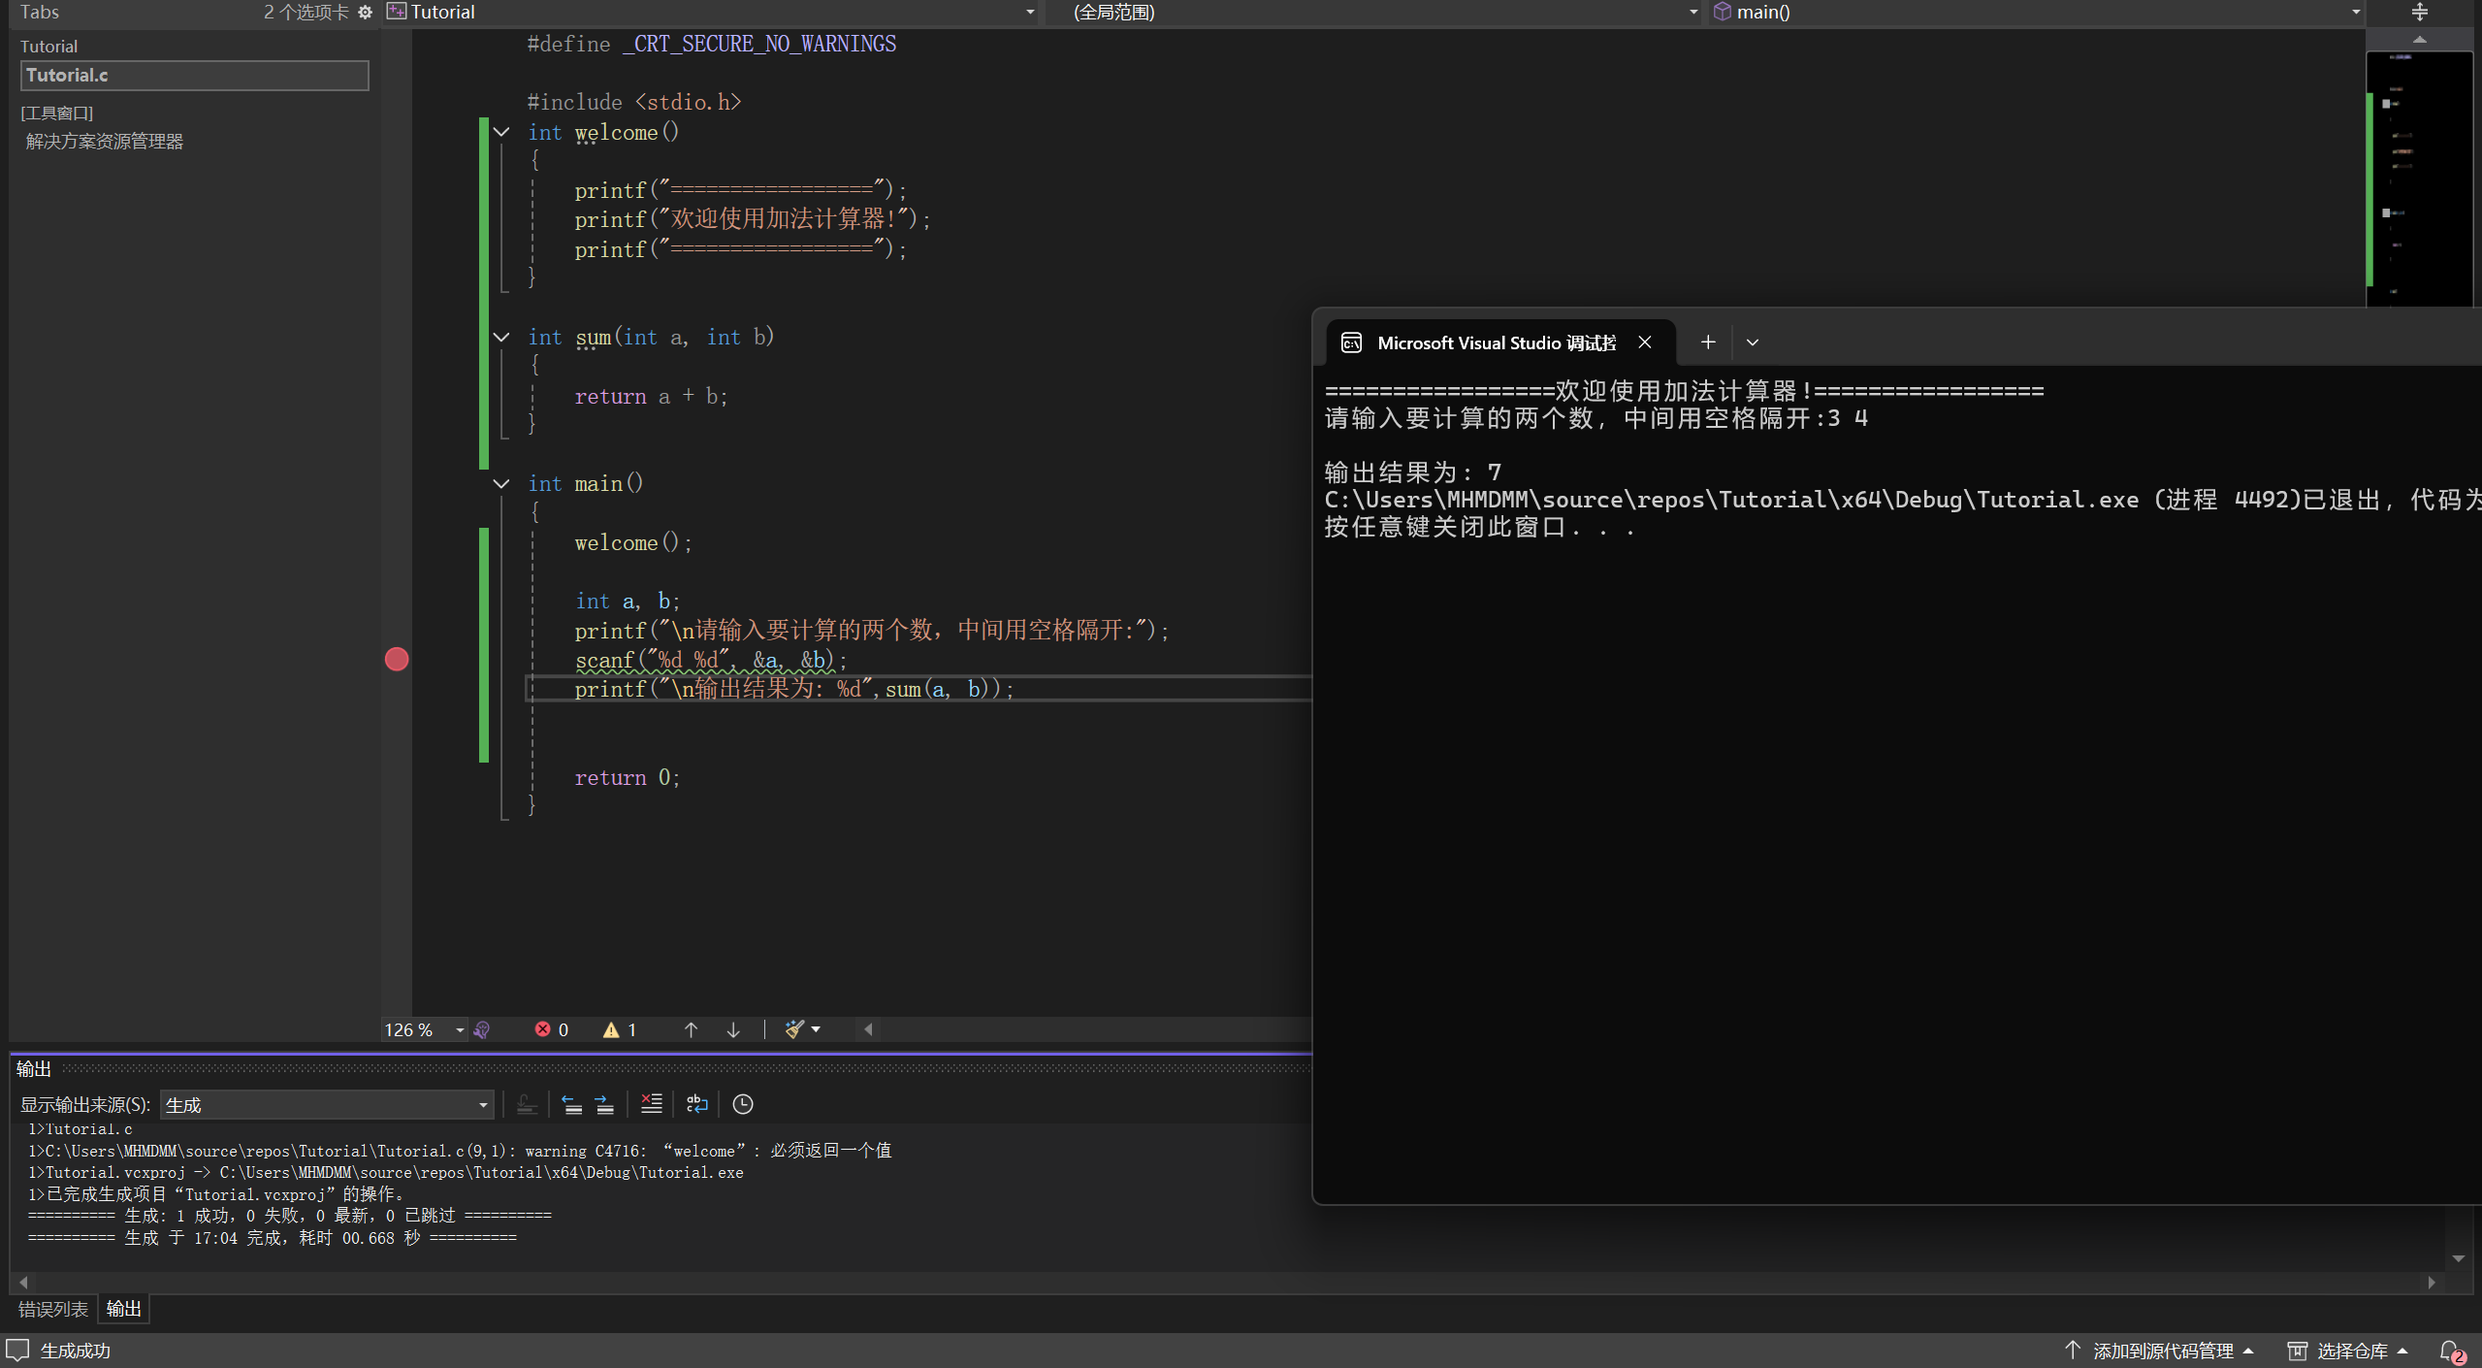
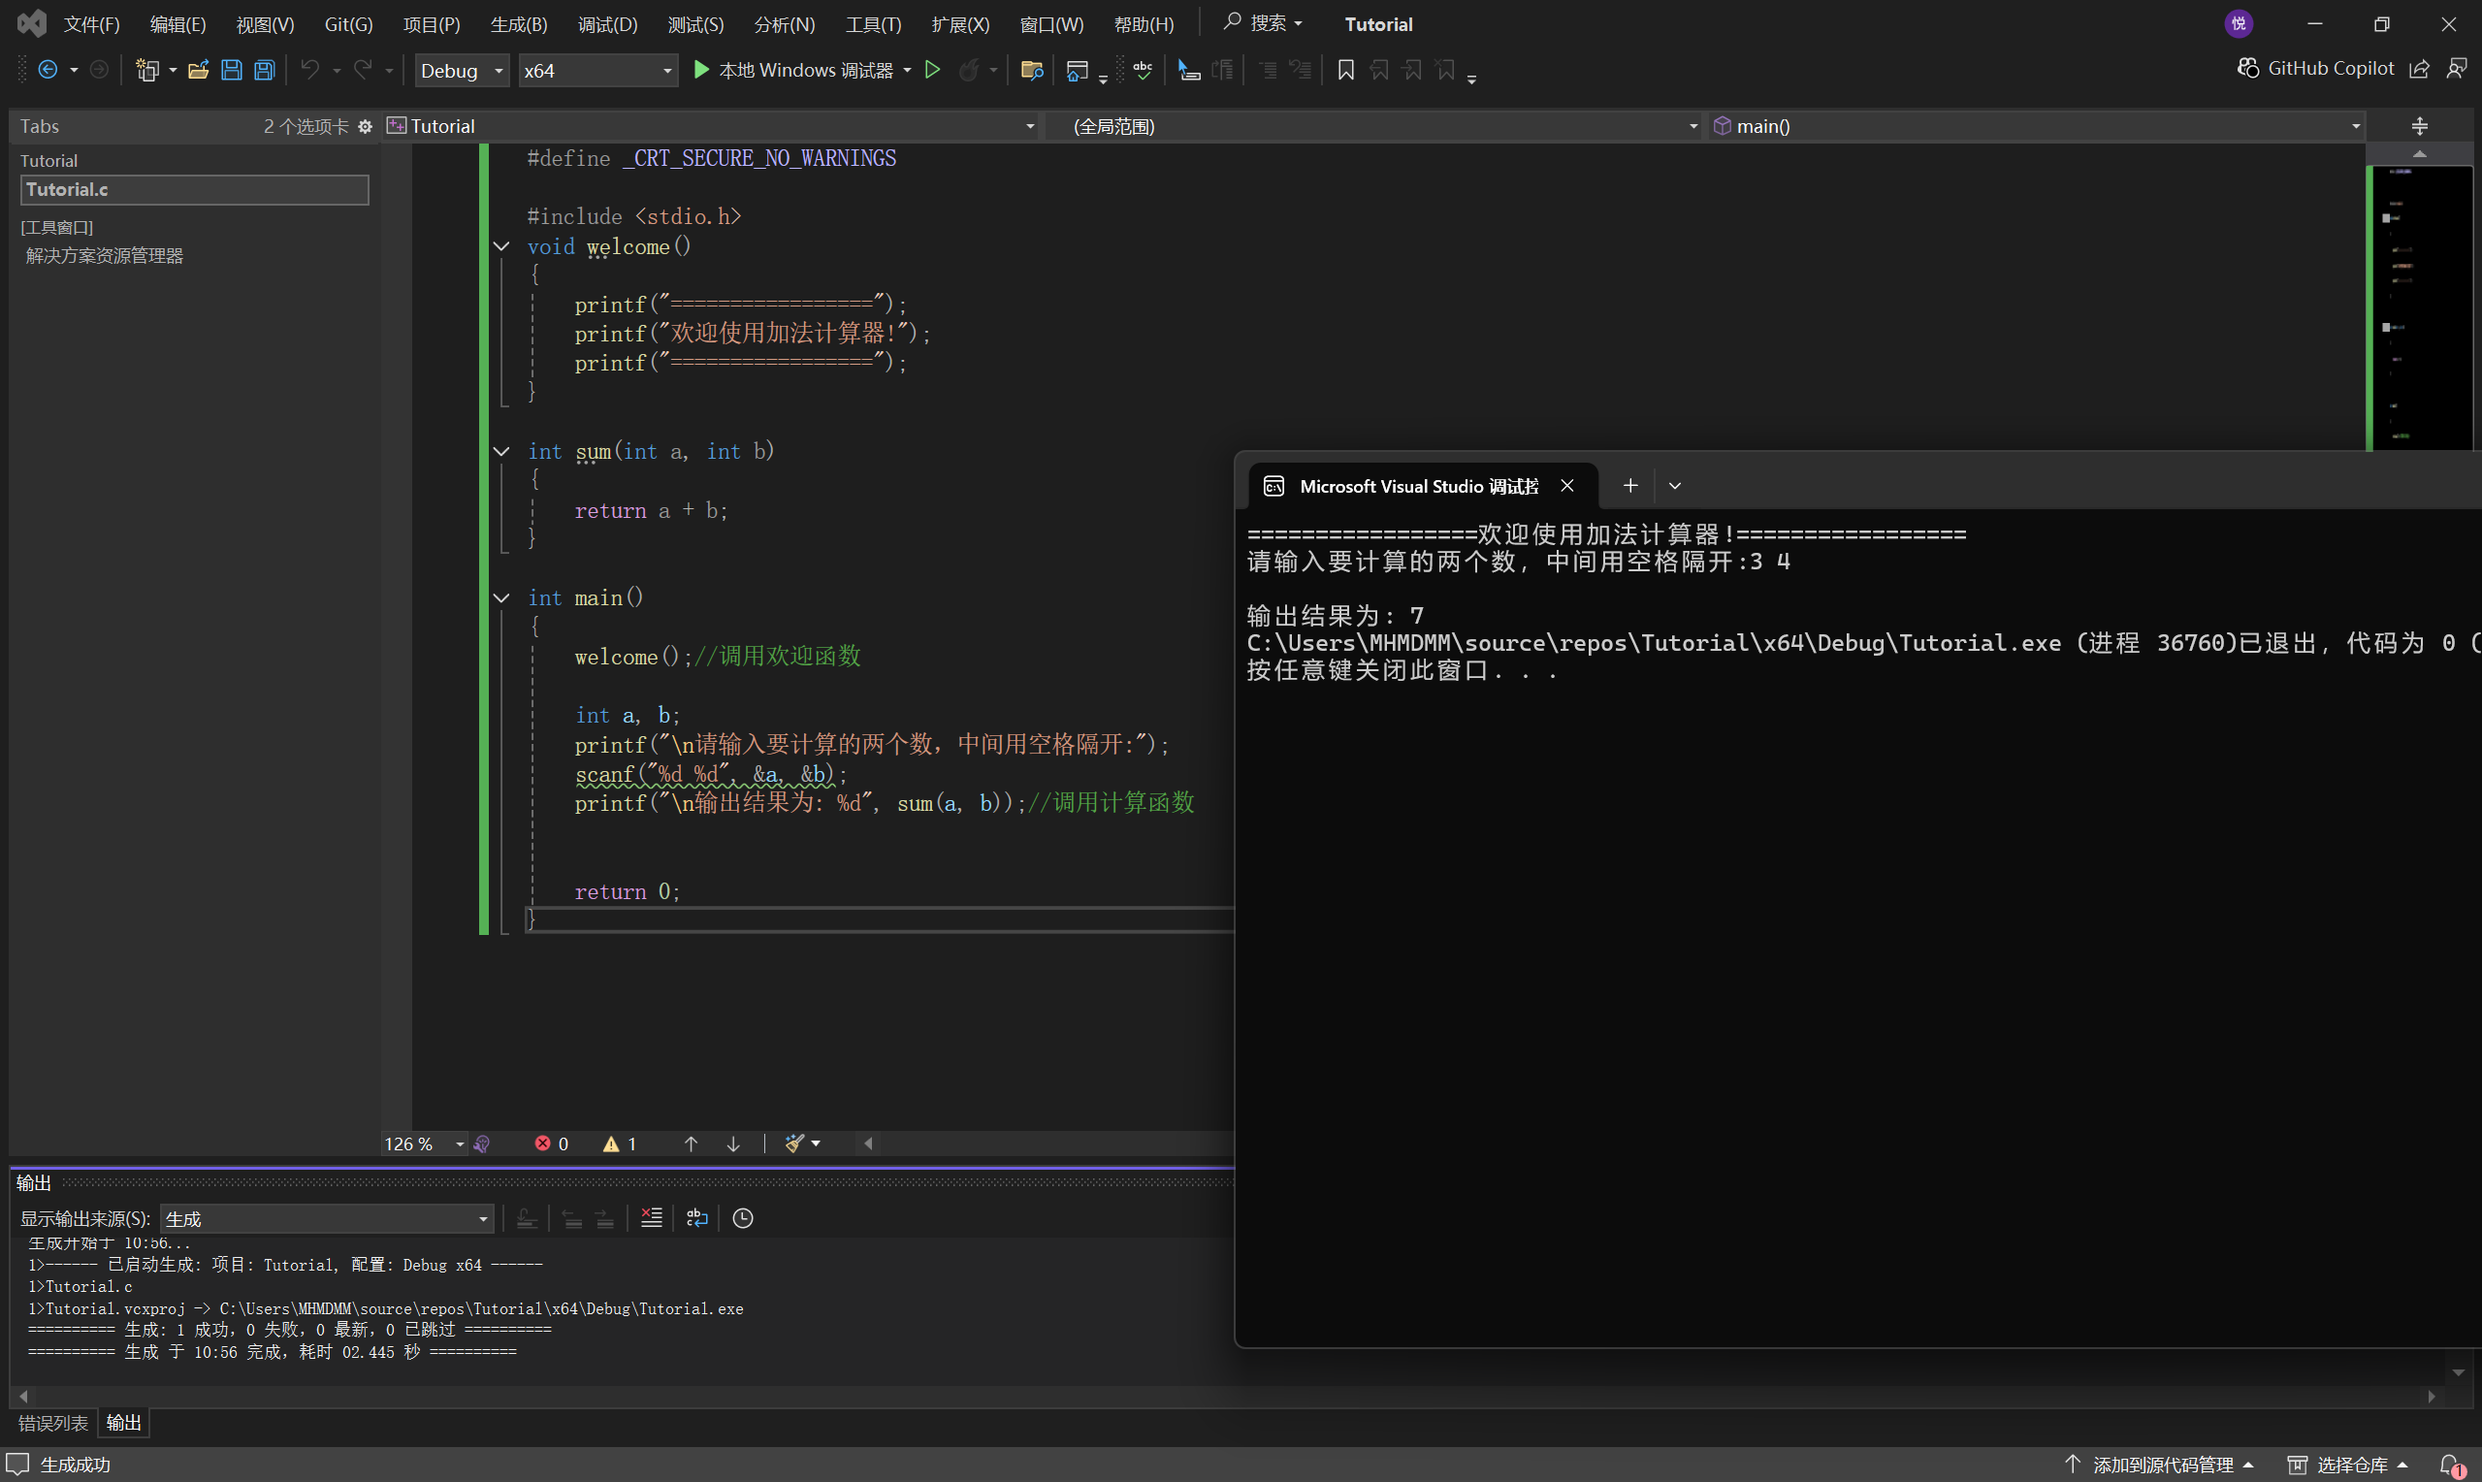
corrected 2.6
a function should be "void" but i wrote it as "int"

diff --git a/docs/programming-language-c/2.6/2.6.2.md b/docs/programming-language-c/2.6/2.6.2.md
@@ -64,7 +64,7 @@ int sum(int a, int b)
 #define _CRT_SECURE_NO_WARNINGS
 
 #include <stdio.h>
-int welcome()
+void welcome()
 {
 	printf("=================");
 	printf("欢迎使用加法计算器!");

diff --git a/docs/programming-language-c/2.13/2.13.3.md b/docs/programming-language-c/2.13/2.13.3.md
@@ -1,4 +1,4 @@
-### 2.12.3 二分查找
+### 2.13.3 二分查找
 
 二分查找是一种查找数据的算法
 
